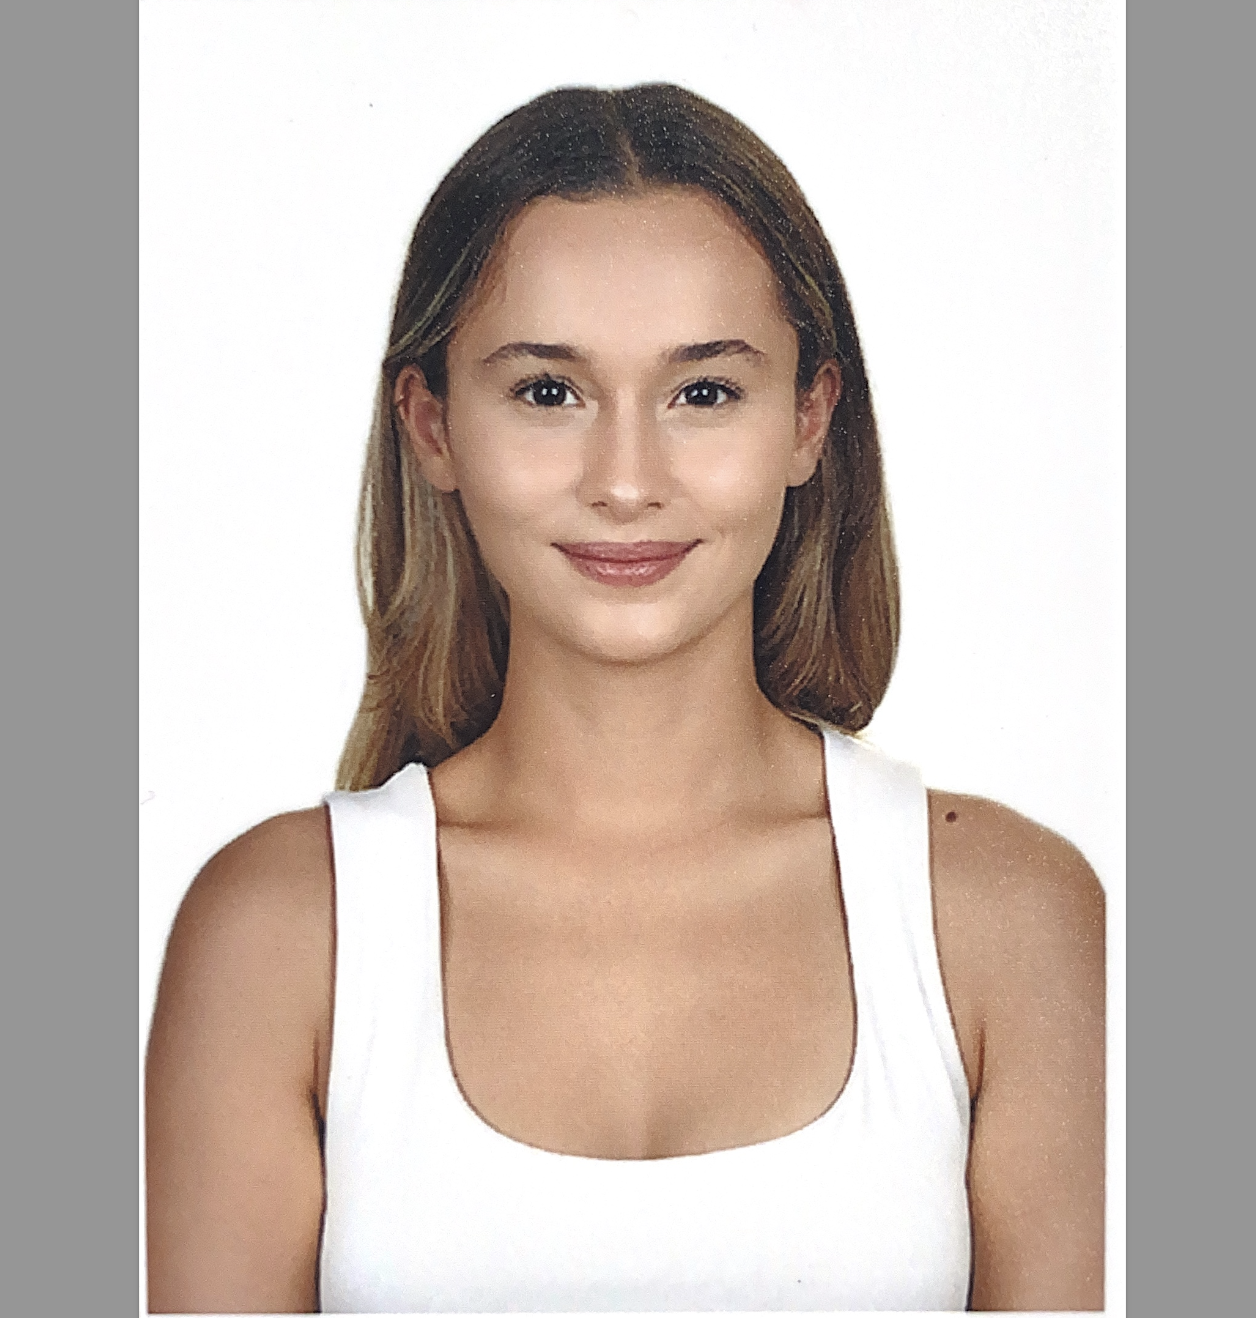
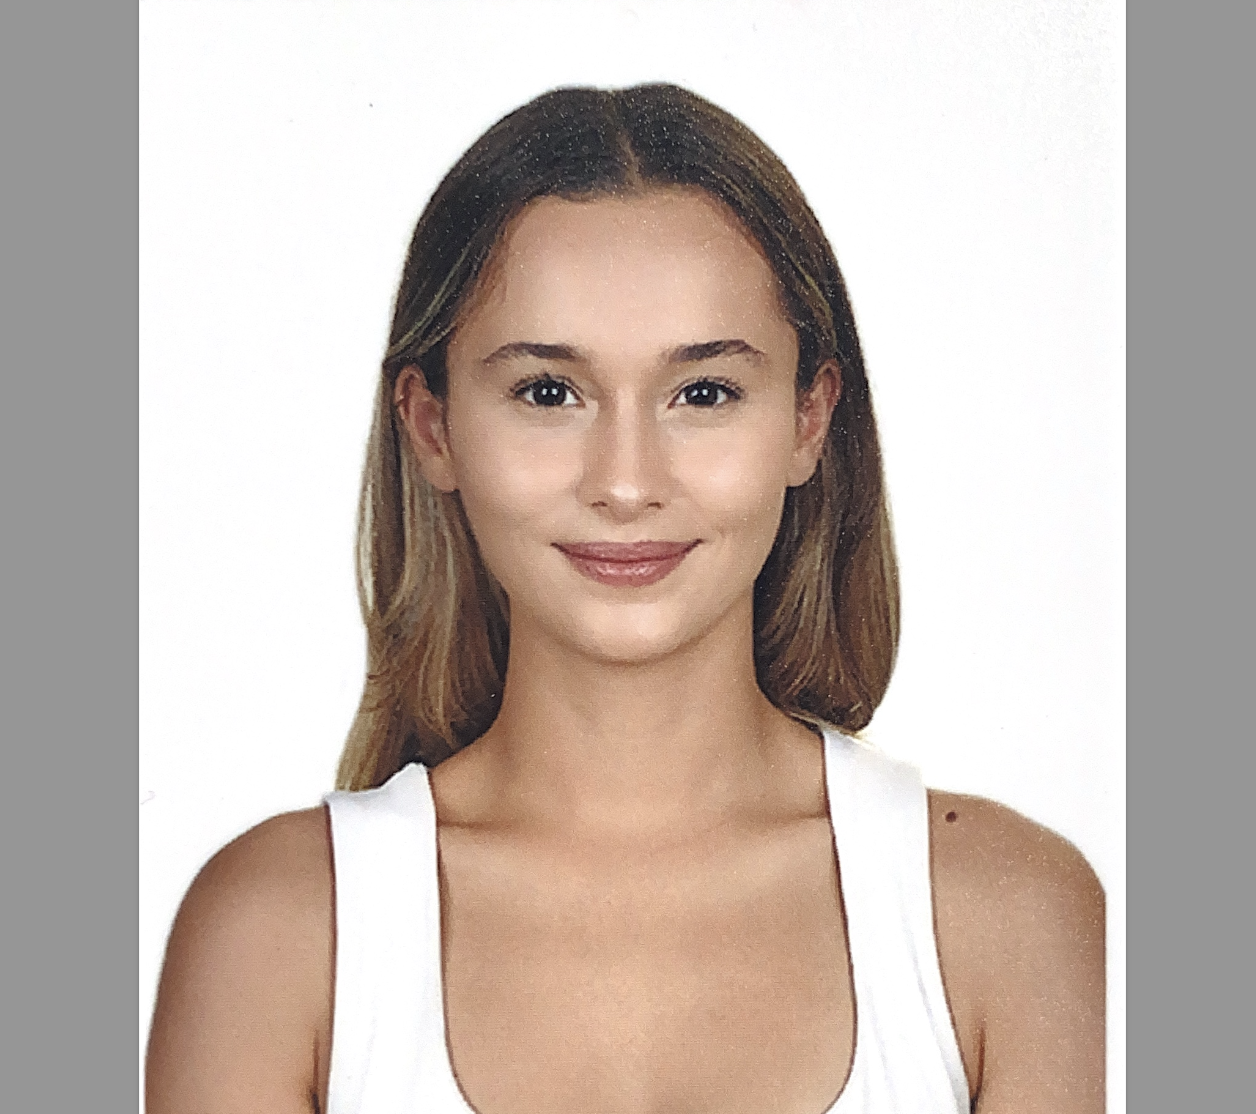
feat: redesign landing page with hero network and interactive elements

Changed region(s): [[0.0932, 0.061, 0.9005, 1.0], [0.4658, 0.763, 0.4968, 0.7935]]

diff --git a/frontend/src/app/(public)/team/page.tsx b/frontend/src/app/(public)/team/page.tsx
@@ -1,10 +1,24 @@
 import type { Metadata } from "next";
+import Image, { type StaticImageData } from "next/image";
 import { Card, PageHeader } from "@/components/ui";
 import { REPO_URL, advisors, team } from "@/content/site";
+import barisAkgun from "../../../../team/baris_akgun.png";
+import boraToker from "../../../../team/bora_toker.png";
+import emreGursoy from "../../../../team/emre_gursoy.jpeg";
+import enesTunc from "../../../../team/enes_tunc.png";
+import hilalAygul from "../../../../team/hilal_aygul.png";
+import merveKoybasi from "../../../../team/merve_koybasi.png";
 
 export const metadata: Metadata = { title: "Team" };
 
-const TONES = ["var(--danger)", "var(--warning)", "var(--accent)", "var(--mint)"];
+const PHOTOS: Record<string, { src: StaticImageData; className?: string }> = {
+  "Bora Toker": { src: boraToker, className: "object-cover object-top" },
+  "Enes Tunç": { src: enesTunc, className: "object-cover object-top scale-105" },
+  "Hilal Aygül": { src: hilalAygul, className: "object-cover object-[center_30%] scale-[1.22]" },
+  "Merve Köybaşı": { src: merveKoybasi, className: "object-cover object-top scale-105" },
+  "Prof. Mehmet Emre Gürsoy": { src: emreGursoy, className: "object-cover object-top" },
+  "Prof. Barış Akgün": { src: barisAkgun, className: "object-cover object-top" },
+};
 
 const initials = (name: string) =>
   name
@@ -12,46 +26,130 @@ const initials = (name: string) =>
     .map((p) => p[0])
     .join("");
 
+function Avatar({
+  name,
+  size = "md",
+}: {
+  name: string;
+  size?: "md" | "lg";
+}) {
+  const photo = PHOTOS[name];
+  const dims =
+    size === "lg"
+      ? "h-36 w-36 sm:h-44 sm:w-44"
+      : "h-32 w-32 sm:h-36 sm:w-36";
+  if (!photo) {
+    return (
+      <span
+        className={`grid ${dims} shrink-0 place-items-center rounded-full bg-accent text-2xl font-semibold text-background`}
+      >
+        {initials(name)}
+      </span>
+    );
+  }
+  return (
+    <span
+      className={`relative ${dims} shrink-0 overflow-hidden rounded-full border border-border bg-surface`}
+    >
+      <Image
+        src={photo.src}
+        alt={name}
+        fill
+        sizes={size === "lg" ? "176px" : "144px"}
+        className={photo.className ?? "object-cover"}
+      />
+    </span>
+  );
+}
+
 export default function Team() {
   return (
-    <div className="space-y-10">
+    <div className="space-y-8">
       <PageHeader
         title="Team FedUp"
         description="We are FedUp, the team behind this COMP 491 capstone project at Koç University."
       >
-        <a href={REPO_URL} className="rounded-lg border border-border px-4 py-2 text-sm hover:bg-surface">
+        <a
+          href={REPO_URL}
+          className="rounded-lg border border-border px-4 py-2 text-sm hover:bg-surface"
+        >
           Source code on GitHub &rarr;
         </a>
       </PageHeader>
-      <section className="space-y-3">
-        <h2 className="text-lg font-semibold">Students</h2>
-        <div className="grid gap-4 sm:grid-cols-2">
-          {team.map((m, i) => (
-            <Card key={m.name} className="flex gap-4">
-              <span
-                className="grid h-11 w-11 shrink-0 place-items-center rounded-full font-semibold text-background"
-                style={{ background: TONES[i % TONES.length] }}
-              >
-                {initials(m.name)}
-              </span>
-              <div>
-                <h3 className="font-semibold">{m.name}</h3>
-                <p className="text-sm text-muted">{m.role}</p>
-              </div>
-            </Card>
-          ))}
+
+      <Card className="space-y-8 p-6 sm:p-8">
+        <div className="flex items-center gap-3">
+          <span
+            aria-hidden
+            className="grid h-10 w-10 shrink-0 place-items-center rounded-lg border border-border bg-accent-soft text-accent"
+          >
+            <svg
+              viewBox="0 0 24 24"
+              className="h-5 w-5"
+              fill="none"
+              stroke="currentColor"
+              strokeWidth={1.8}
+              strokeLinecap="round"
+              strokeLinejoin="round"
+            >
+              <path d="M22 10 12 5 2 10l10 5 10-5Z" />
+              <path d="M6 12v5c0 1.7 2.7 3 6 3s6-1.3 6-3v-5" />
+              <path d="M22 10v6" />
+            </svg>
+          </span>
+          <h2 className="text-xl font-semibold sm:text-2xl">Project Advisors</h2>
         </div>
-      </section>
-      <section className="space-y-3">
-        <h2 className="text-lg font-semibold">Advisors</h2>
-        <ul className="grid gap-4 sm:grid-cols-2">
+        <ul className="grid gap-8 sm:grid-cols-2 sm:gap-x-10">
           {advisors.map((a) => (
-            <li key={a}>
-              <Card>{a}</Card>
+            <li key={a} className="flex items-center gap-5 sm:gap-6">
+              <Avatar name={a} size="md" />
+              <span className="text-lg font-semibold sm:text-xl">{a}</span>
             </li>
           ))}
         </ul>
-      </section>
+      </Card>
+
+      <Card className="space-y-8 p-6 sm:p-8">
+        <div className="flex items-center gap-3">
+          <span
+            aria-hidden
+            className="grid h-10 w-10 shrink-0 place-items-center rounded-lg border border-border bg-background text-mint"
+          >
+            <svg
+              viewBox="0 0 24 24"
+              className="h-5 w-5"
+              fill="none"
+              stroke="currentColor"
+              strokeWidth={1.8}
+              strokeLinecap="round"
+              strokeLinejoin="round"
+            >
+              <path d="M16 21v-2a4 4 0 0 0-4-4H6a4 4 0 0 0-4 4v2" />
+              <circle cx="9" cy="7" r="4" />
+              <path d="M22 21v-2a4 4 0 0 0-3-3.87" />
+              <path d="M16 3.13a4 4 0 0 1 0 7.75" />
+            </svg>
+          </span>
+          <h2 className="text-xl font-semibold sm:text-2xl">Team Members</h2>
+        </div>
+        <div className="grid gap-8 sm:grid-cols-2 sm:gap-x-10 sm:gap-y-10">
+          {team.map((m) => (
+            <div key={m.name} className="flex items-center gap-5 sm:gap-6">
+              <Avatar name={m.name} size="md" />
+              <div className="min-w-0 space-y-1.5">
+                <h3 className="text-lg font-semibold sm:text-xl">{m.name}</h3>
+                <a
+                  href={`mailto:${m.email}`}
+                  className="inline-block text-sm text-foreground/90 underline underline-offset-4 transition-colors hover:text-accent sm:text-base"
+                >
+                  {m.email}
+                </a>
+                <p className="text-sm leading-relaxed text-muted">{m.role}</p>
+              </div>
+            </div>
+          ))}
+        </div>
+      </Card>
     </div>
   );
 }

diff --git a/frontend/src/content/site.ts b/frontend/src/content/site.ts
@@ -10,10 +10,26 @@ export const nav = [
 ];
 
 export const team = [
-  { name: "Bora Toker", role: "Aggregator, coordinator, gateway, shared client runtime, deployment" },
-  { name: "Enes Tunç", role: "Bank client (tabular), API specification, independent-implementation client" },
-  { name: "Hilal Aygül", role: "Website, Grafana dashboards, end-of-run report" },
-  { name: "Merve Köybaşı", role: "Telecom client (text), conformance and database schema" },
+  {
+    name: "Bora Toker",
+    email: "btoker23@ku.edu.tr",
+    role: "Aggregator, coordinator, gateway, shared client runtime, deployment",
+  },
+  {
+    name: "Enes Tunç",
+    email: "etunc22@ku.edu.tr",
+    role: "Bank client (tabular), API specification, independent-implementation client",
+  },
+  {
+    name: "Hilal Aygül",
+    email: "haygul22@ku.edu.tr",
+    role: "Website, Grafana dashboards, end-of-run report",
+  },
+  {
+    name: "Merve Köybaşı",
+    email: "mkoybasi21@ku.edu.tr",
+    role: "Telecom client (text), conformance and database schema",
+  },
 ];
 
 export const advisors = ["Prof. Mehmet Emre Gürsoy", "Prof. Barış Akgün"];

diff --git a/frontend/src/components/ui.tsx b/frontend/src/components/ui.tsx
@@ -53,7 +53,7 @@ export function PageHeader({
     <header className="flex flex-wrap items-end justify-between gap-4">
       <div className="space-y-1">
         <h1 className="text-2xl font-semibold sm:text-3xl">{title}</h1>
-        {description && <p className="max-w-2xl text-sm text-muted sm:text-base">{description}</p>}
+        {description && <p className="max-w-4xl text-sm text-muted sm:text-base">{description}</p>}
       </div>
       {children}
     </header>
